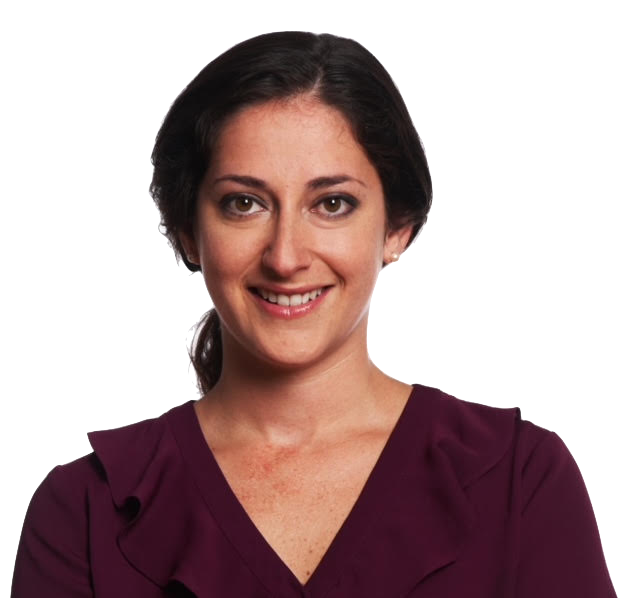
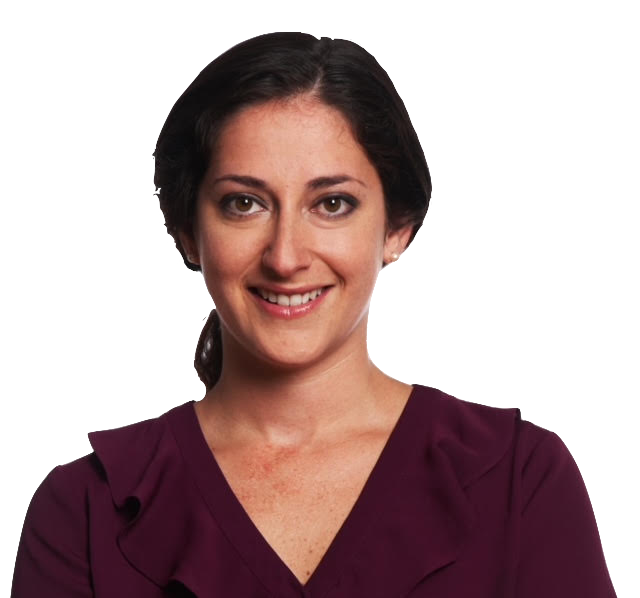
testimonials: fine tuned

diff --git a/style.css b/style.css
@@ -180,33 +180,18 @@ video {
   text-shadow: 0.063rem 0.063rem black;
 }
 
-div#jessePhoto > img {
-  width: 44%;
-  /* border-radius: 1.5%; */
+.jesseAlannaSpaces {
+  background-color: #2b2d2f;
 
-  /* border: 0.203rem solid black;
-  background-color: white;
-  box-shadow: 0 0.25rem 0.5rem 0 rgba(0, 0, 0, 0.2),
-    0 0.375rem 1.25rem 0 rgba(0, 0, 0, 0.19),
-    0 0.25rem 0.5rem 0 rgba(0, 0, 0, 0.2),
-    0 0.375rem 1.25rem 0 rgba(0, 0, 0, 0.19); */
-
-  margin-top: 2.75rem;
-  display: block;
-  margin-left: auto;
-  margin-right: auto;
+  margin-left: -2rem;
+  margin-right: -2rem;
 }
 
-div#alannaPhoto > img {
-  width: 34%;
-  /* border-radius: 50%;
+div#jessePhoto > img {
+  width: 40%;
 
-  border: 0.203rem solid black;
-  background-color: black;
-  box-shadow: 0 0.25rem 0.5rem 0 rgba(0, 0, 0, 0.2),
-    0 0.375rem 1.25rem 0 rgba(0, 0, 0, 0.19),
-    0 0.25rem 0.5rem 0 rgba(0, 0, 0, 0.2),
-    0 0.375rem 1.25rem 0 rgba(0, 0, 0, 0.19); */
+  border: 0.15rem solid #5ce1e6;
+  background-color: #5ce1e6;
 
   margin-top: 3rem;
   margin-bottom: 0.538rem;
@@ -215,8 +200,21 @@ div#alannaPhoto > img {
   margin-right: auto;
 }
 
+div#alannaPhoto > img {
+  width: 34%;
+  border: 0.15rem solid #5ce1e6;
+  background-color: #5ce1e6;
+
+  margin-top: 3rem;
+  margin-bottom: 1rem;
+  display: block;
+  margin-left: auto;
+  margin-right: auto;
+}
+
 div > p.col-xs#jesseTestimonial,
 div > p.col-xs#alannaTestimonial {
+  color: #c8c4bd;
   display: block;
   margin-left: auto;
   margin-right: auto;
@@ -224,7 +222,12 @@ div > p.col-xs#alannaTestimonial {
 
 #jesseTitle,
 #alannaTitle {
+  color: #fff;
   text-align: center;
+}
+
+#alannaTitle {
+  margin-top: 1rem;
 }
 
 #jesseTestimonial,
@@ -244,12 +247,25 @@ div > p.col-xs#alannaTestimonial {
 .testimonialLinks {
   color: #5ce1e6;
 }
+
+.claireRow {
+  margin-left: -2rem;
+  margin-right: -2rem;
+  background-color: #202124;
+}
+
+#claireTitle {
+  color: #fff;
+}
+
 #claireTestimonial {
+  color: #c8c4c8;
   font-family: "Glacial Indifference";
   text-align: justify;
   margin-left: 3rem;
   margin-right: 3rem;
 }
+
 #clairePhoto {
   display: block;
   margin-left: auto;
@@ -257,6 +273,10 @@ div > p.col-xs#alannaTestimonial {
   width: 34%;
 
   margin-top: -1rem;
+}
+
+.creditsDiv {
+  margin-top: 5rem;
 }
 
 .credits,

diff --git a/index.html b/index.html
@@ -472,12 +472,12 @@
 
     <footer class="container-fluid">
       <div class="testimonialsDiv">
-        <div class="row">
+        <div class="row jesseAlannaSpaces">
           <div class="col-md" id="jessePhoto">
             <img
               class="jesseDiv"
               id="jessePhoto"
-              src="images/Jesse-Peplinski-Headshot-Low-Quality.png"
+              src="images/jesse-peplinski-pic.png"
               alt="Jesse Peplinski"
             />
           </div>
@@ -492,7 +492,7 @@
           </div>
         </div>
 
-        <div class="row">
+        <div class="row jesseAlannaSpaces">
           <div class="col-xs">
             <h2 id="jesseTitle">
               JESSE PEPLINSKI | PARTNER AT
@@ -519,7 +519,7 @@
           </div>
         </div>
 
-        <div class="row">
+        <div class="row jesseAlannaSpaces">
           <div class="col-xs">
             <p class="col-xs notbold" id="jesseTestimonial">
               "La'Tonia Mertica is a rock-start student. She asks good
@@ -555,8 +555,8 @@
             </p>
           </div>
         </div>
-        <div class="row">
-          <div class="col-md">
+        <div class="row claireRow">
+          <div class="col-md claireColMd">
             <img
               id="clairePhoto"
               src="images/blumensonPic.png"
@@ -611,7 +611,7 @@
       </div>
 
       <div>
-        <div>
+        <div class="creditsDiv">
           <h2 class="credits">CREDITS<br /></h2>
           <p class="creditsText">backdropImage Pexels/Zaksheuskaya</p>
         </div>
